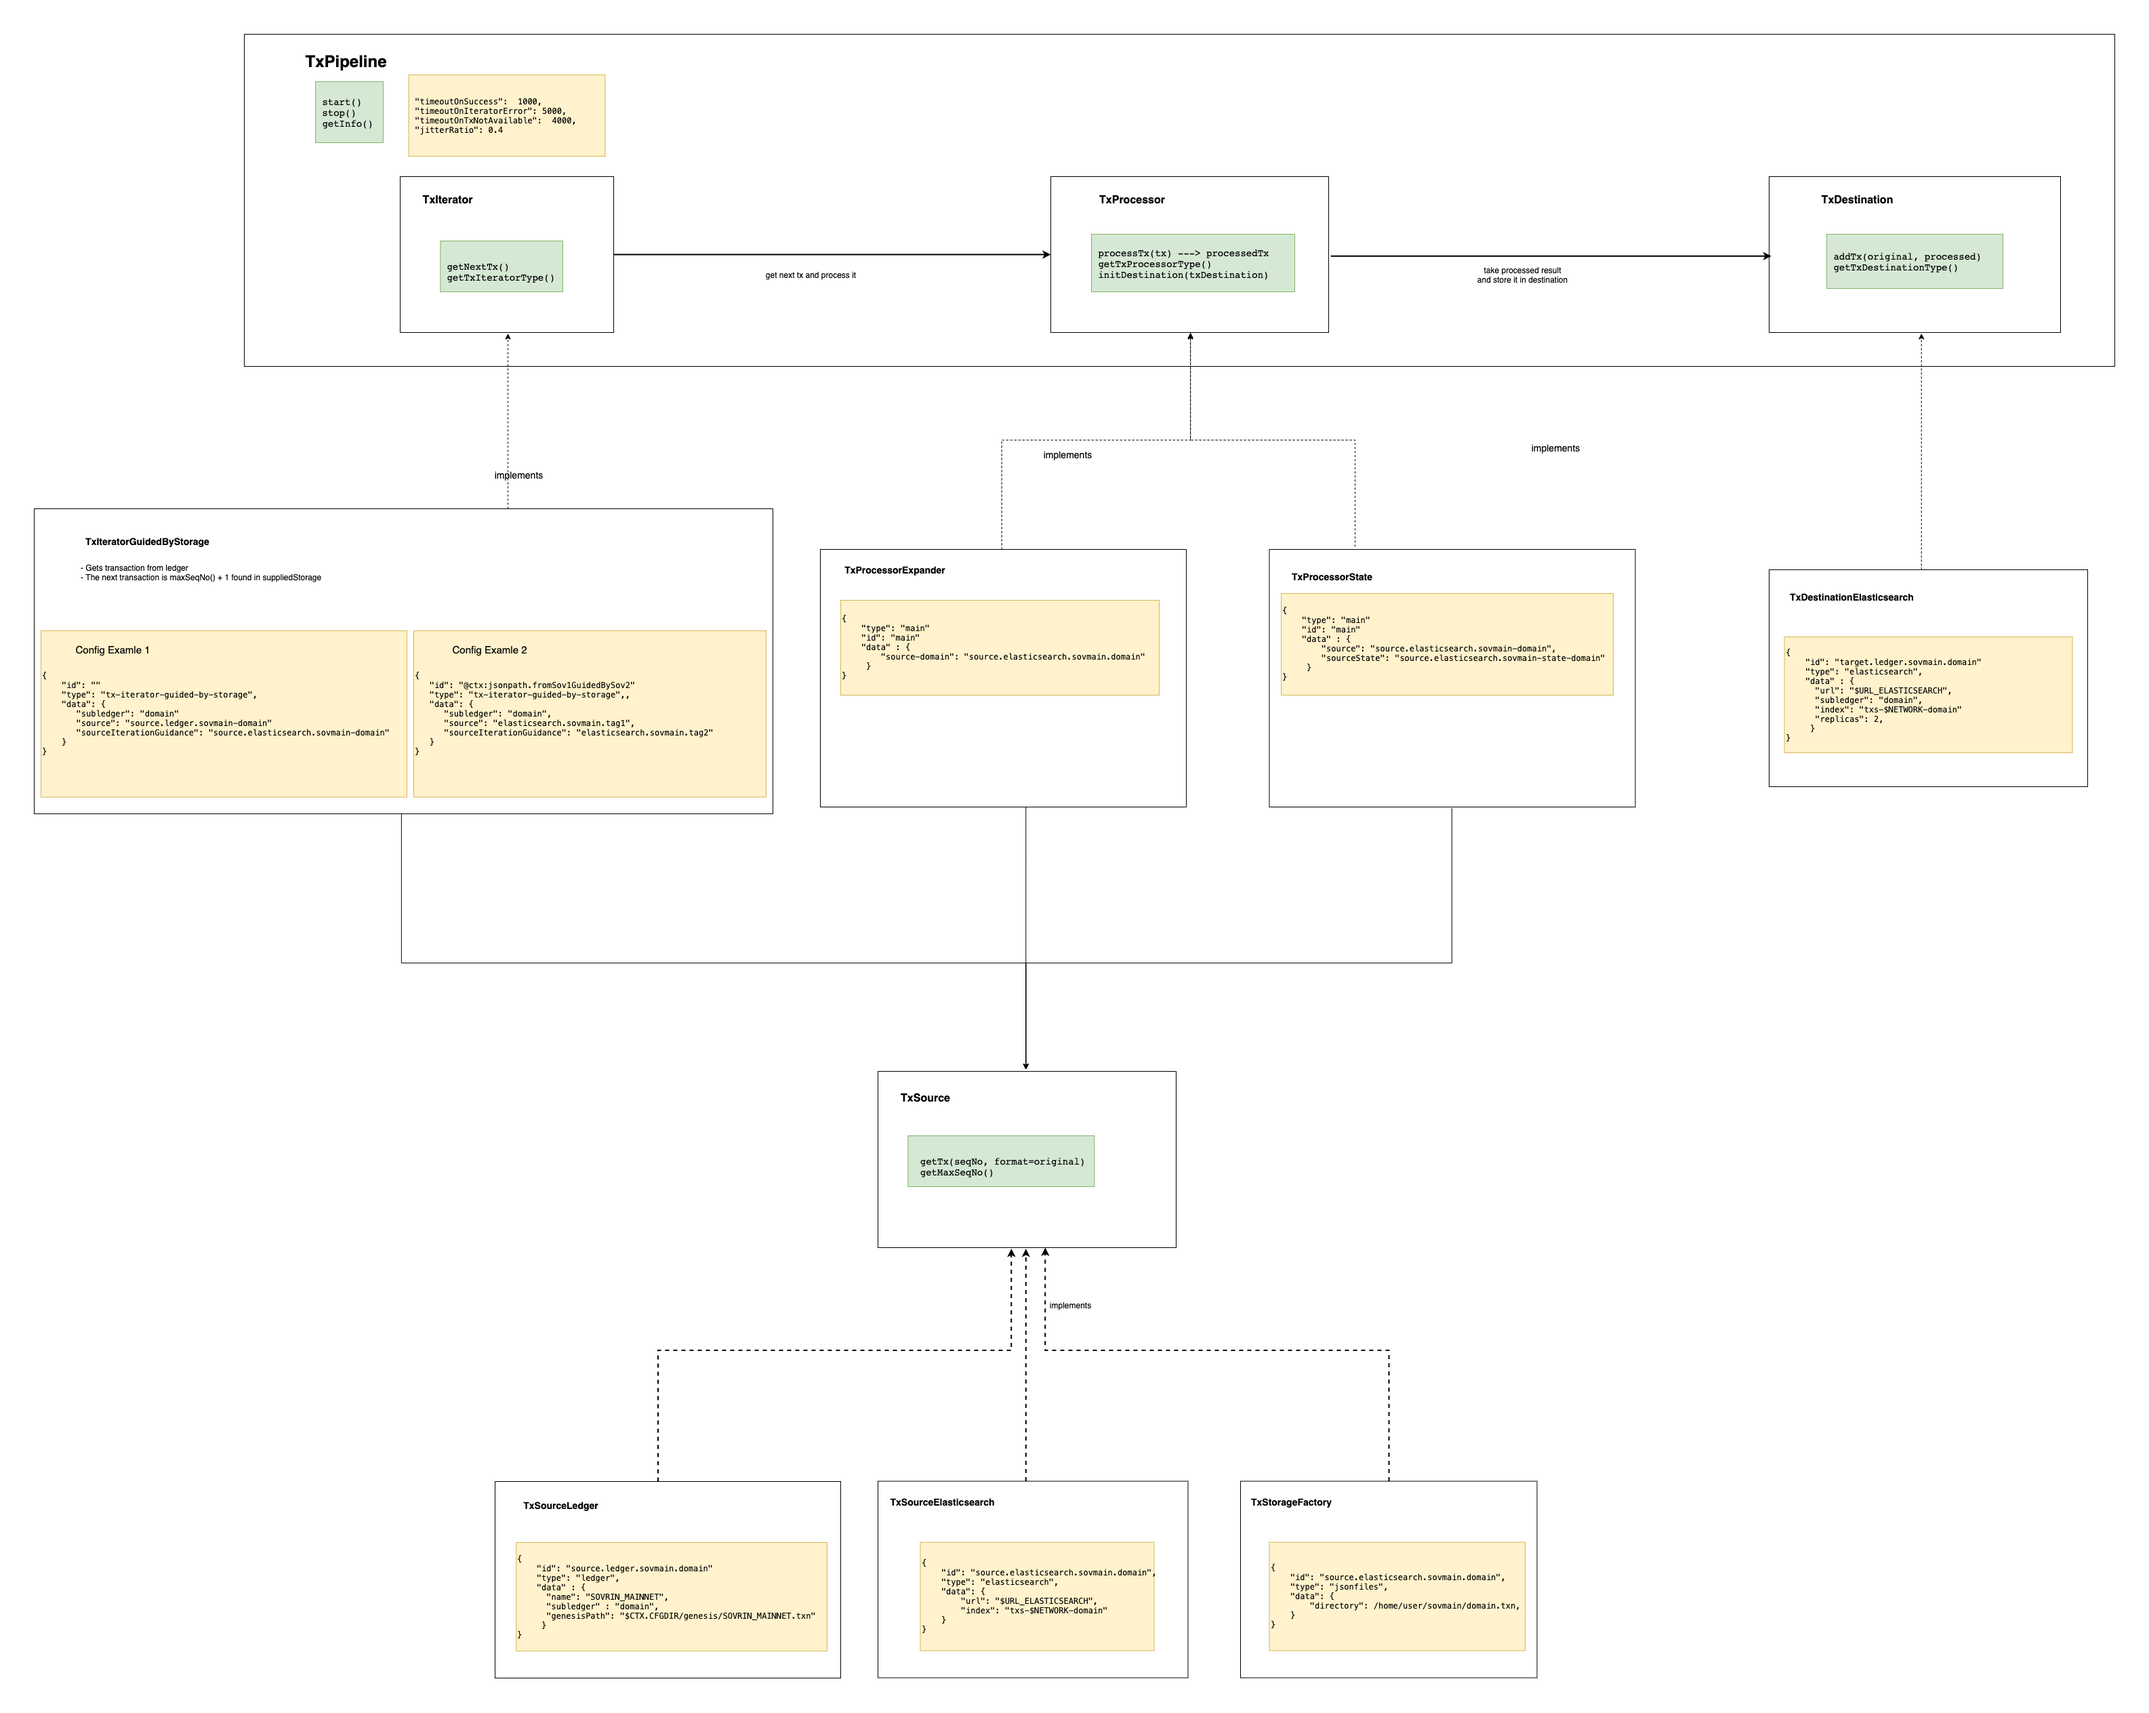
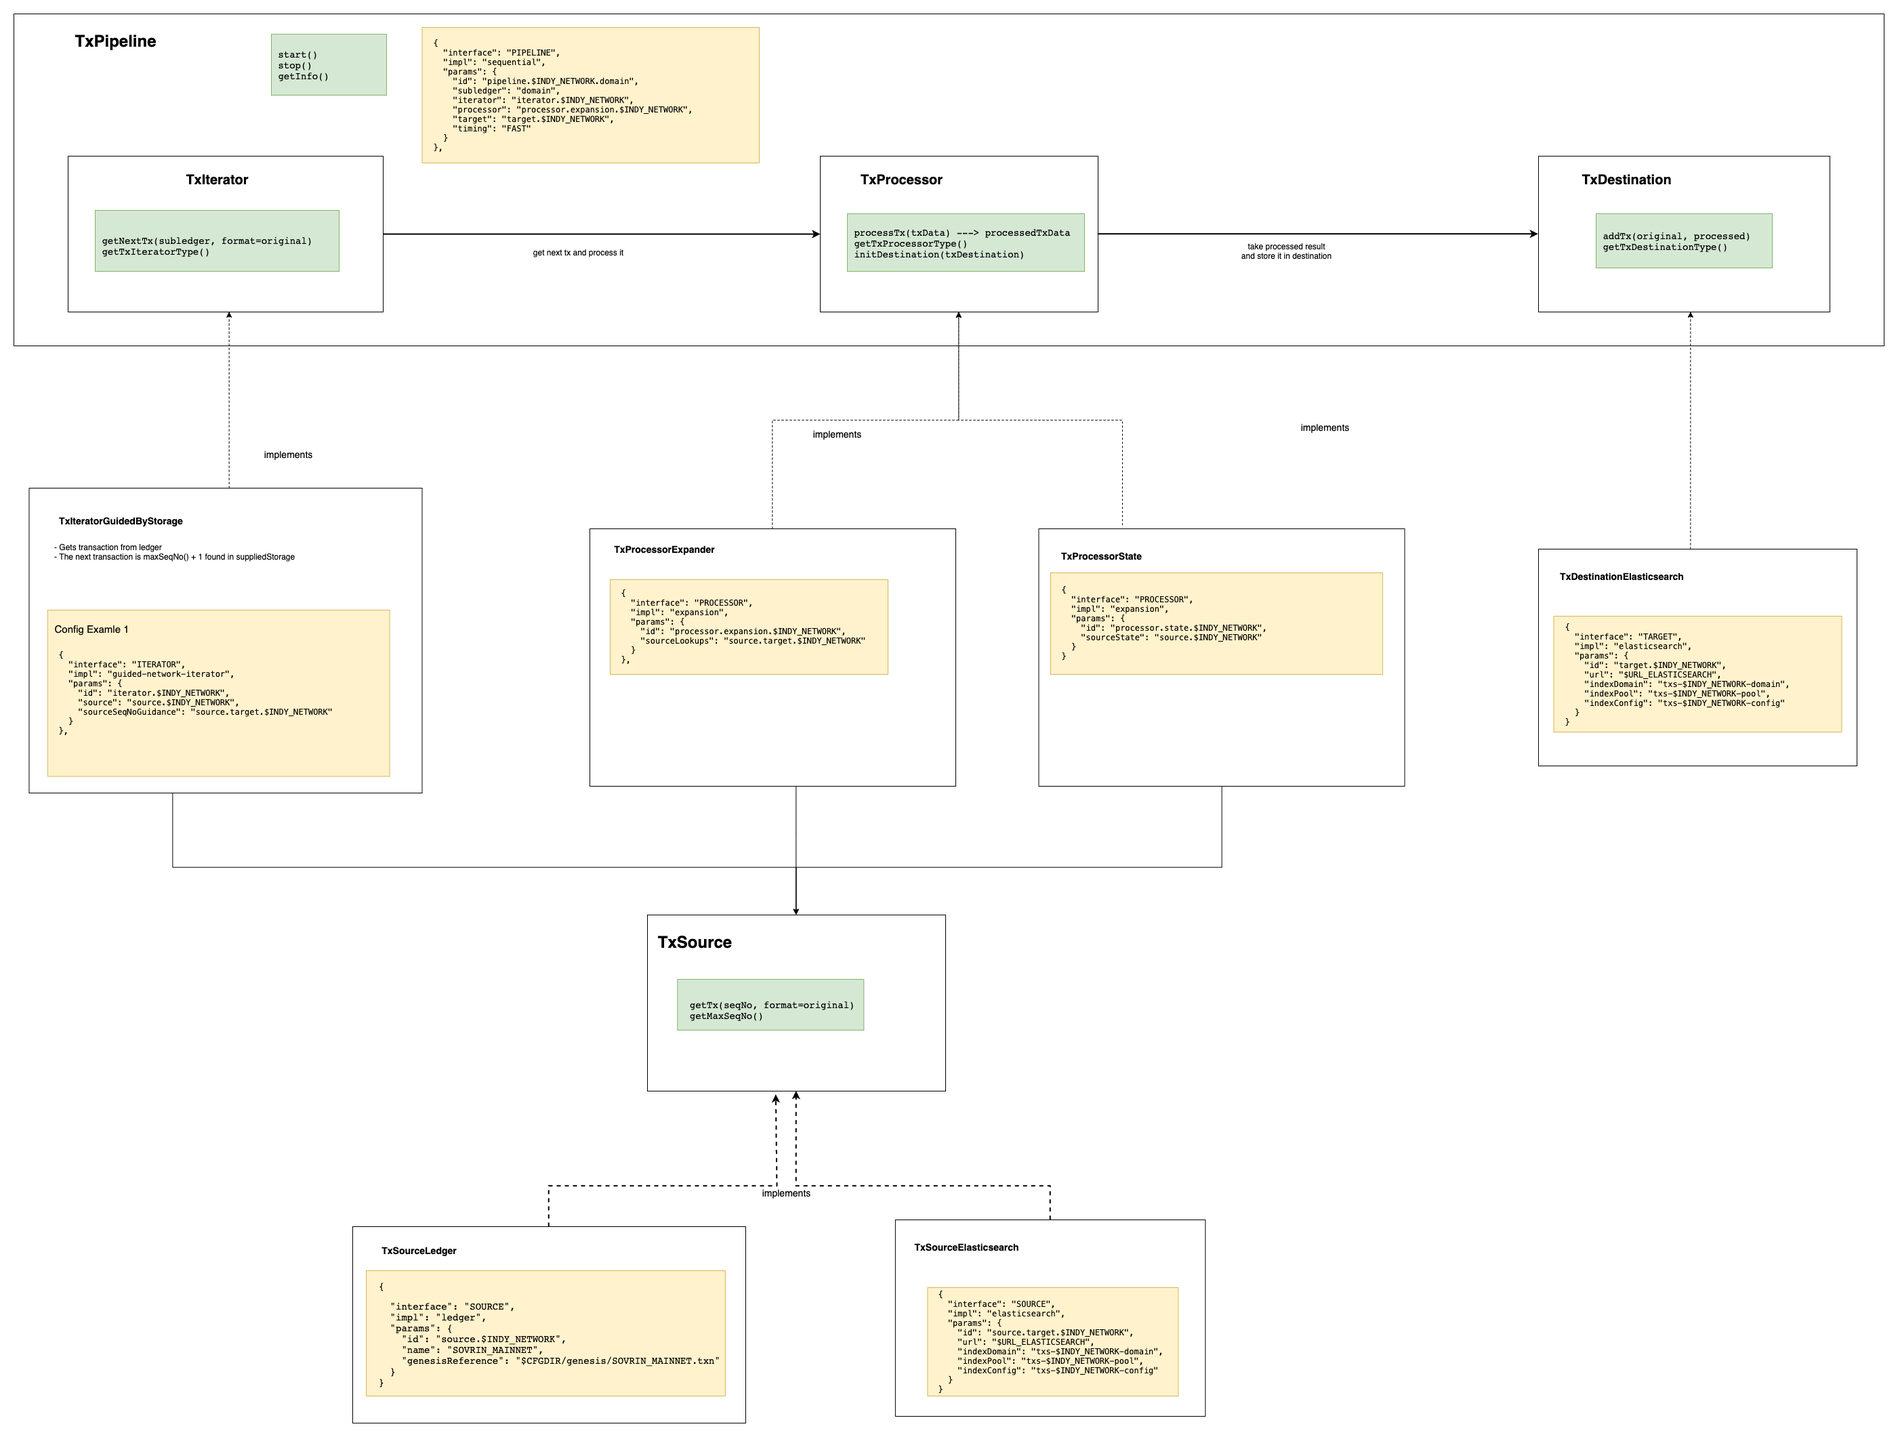
Update documentation and sample configuration files

diff --git a/indyscan-daemon/README.md b/indyscan-daemon/README.md
@@ -10,11 +10,26 @@ Default: `./app-config/localhost.json`
 
 # Configuration 4.0.0+
 In version 4.0.0 was introduced new configuration format for daemon. This daemon is 
-more verbose than the older format, but also more expressive and flexible. The configuration format in 4.0.0
-basically gives instructions to a small custom dependency inject engine how to build out various object and
-how to inject these into dependent objects. 
+more verbose than the older format, but also more expressive and flexible.
 
-The daemon recognizes several basic interfaces:
+## Configuration file evaluation
+Configuration file contains 3 main sections: `environment`, `comments` and `objects`.
+- Section `environment` is object containing key-values. The `objects` section can contain references to the keys 
+  defined here in order to access the values behind them.
+- Section `comments` is ignored.
+- Section `objects` defined how should be application objects composed at runtime.
+
+
+## `Objects` section
+There are 5 types of interfaces which can be wired up together. Each interface can have various implementations you 
+can pick.
+Interfaces:
+- `source`, implementations: [`soure-ledger`, `source-elasticsearch`]
+- `target`, implementations: [`target-elasticsearch`]
+- `processor`, implementations: [`processor-expansion`]
+- `iterator`, implementations: [`iterator-guided`]
+- `pipeline`, implementations: [`pipeline-sequential`]
+
 ### `source` interface
 Defined as:
 ```
@@ -36,16 +51,23 @@ transactions are returned from the ledger.
 - Different implementations of this interface might return from different data sources - ledger, files, databases, etc.
 
  
-#### `source` interface implementation: `source-edger`
+#### `source` interface implementation: `source-ledger`
 Returns transactions directly querying the ledger on demand. 
 Constructor requires following arguments:
 ```json
 {
     "id": "source.sovmain",
-    "name": "SOVRIN_MAINNET",
-    "genesisReference": "./genesis/SOVRIN_MAINNET.txn"
+    "networkName": "SOVRIN_MAINNET",
+    "networkGenesisPath": "/home/ubuntu/SOVRIN_MAINNET.txn"
 }
 ```
+- If ledger already exists on the host system identified as `networkName`, its genesis file will be the one
+ used for connecting to Indy network and value of `networkGenesisPath` will be ignored.
+- If ledger `netoworkName` is unknown to the host system, it will be created using file `networkGenesisPath`.
+  The path can be absolute or relative to the PWD of the running process. To make things easier, there's a special
+  macro `"$CFGDIR"` which will be evaluated as a path to directory containing the processed configuration file. 
+  This is useful, because you  can put genesis files into a subdirectory of your config file and reference them. 
+  Example of using this: `"networkGenesisPath": "$CFGDIR/genesis/SOVRIN_MAINNET.txn"`.
 
 #### `source` interface implementation: `source-elasticsearch` 
 Returns transactions stored in Elasticsearch. Supports `original` and `expanded` formats. The `expanded` format
@@ -177,9 +199,12 @@ Constructor requires following arguments:
     }
 }
 ```
+
 Whereas 
 - `subledger` - specifies the subledger this pipeline is processing
-- `timing` - specifies timeouts between individual pipeline runs, depending on various events
+- `timing` - specifies timeouts between individual pipeline runs, depending on various events. You can either set up
+  timeout values yourself or use preset by supplying one of following strings as value: `SLOW`, `MEDIUM`, `FAST`, 
+  `TURBO`.
 - `iterator` - is ID of object implementing `iterator` interface. First stage of the pipeline begins here. 
   If iterator returns `undefined`, ie. no transaction is yet available, the pipeline will retry again after 
   `timeoutOnTxNoFound`ms. If an error occurs, the run is aborted and next pipeline run will run after 
@@ -192,22 +217,4 @@ Whereas
 
 If during the pipeline run an except
 
-
-# Configuration : Application Configuration file
-TODO: take care of this paragraph
-
-This file specifies list of scanning tasks to do. Each task has name, can have certain options and must
-specify source and target, Source is where the data is taken from. Target is where the read data is stored.
-
-Only `ledger` source is currently supported and only `elasticsearch` is supported target. 
-
-- The `scanning` object defined how should the `scanning` be performed. Right now only 1 option `mode` is 
-available. These are allowed mode values: `SLOW`, `MEDIUM`, `FAST`, `TURBO`
-- The `source` object defines what's the source of transactions. Currently only `type` of `ledger` is supported.
-The `source.data` specifies data source details for given `source.type`. For `source.type: ledger`, the 
-`source.data` must specify `name`. If ledger with given `name` exists in `~/.indy-client/pool/`, the 
-`genesis` option will be ignored. If no ledger with given `name` exists in `~/.indy-client/pool/`, the 
-`genesis` value will be utilized. The `genesis` value must be path pointing to indy network genesis file
-which will be from then on used for connecting to ledger identtified as `name` (it will be
-added to `~/.indy-client/pool/` ). The path must be relative to path of the configuration file itself.
 
